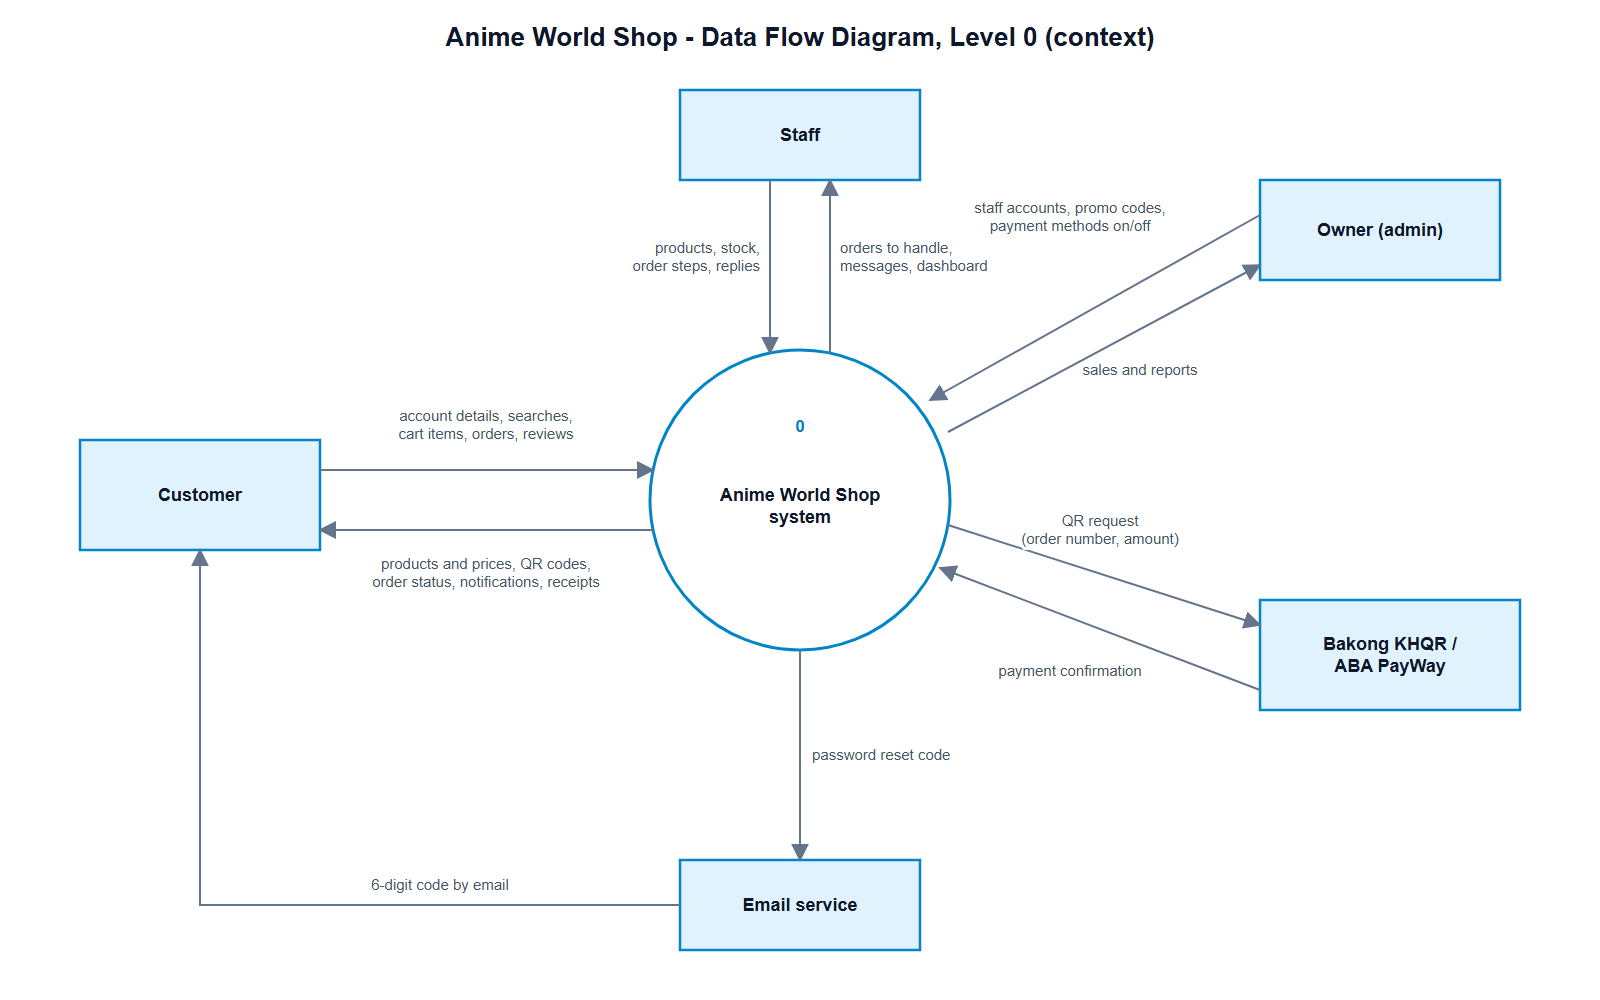
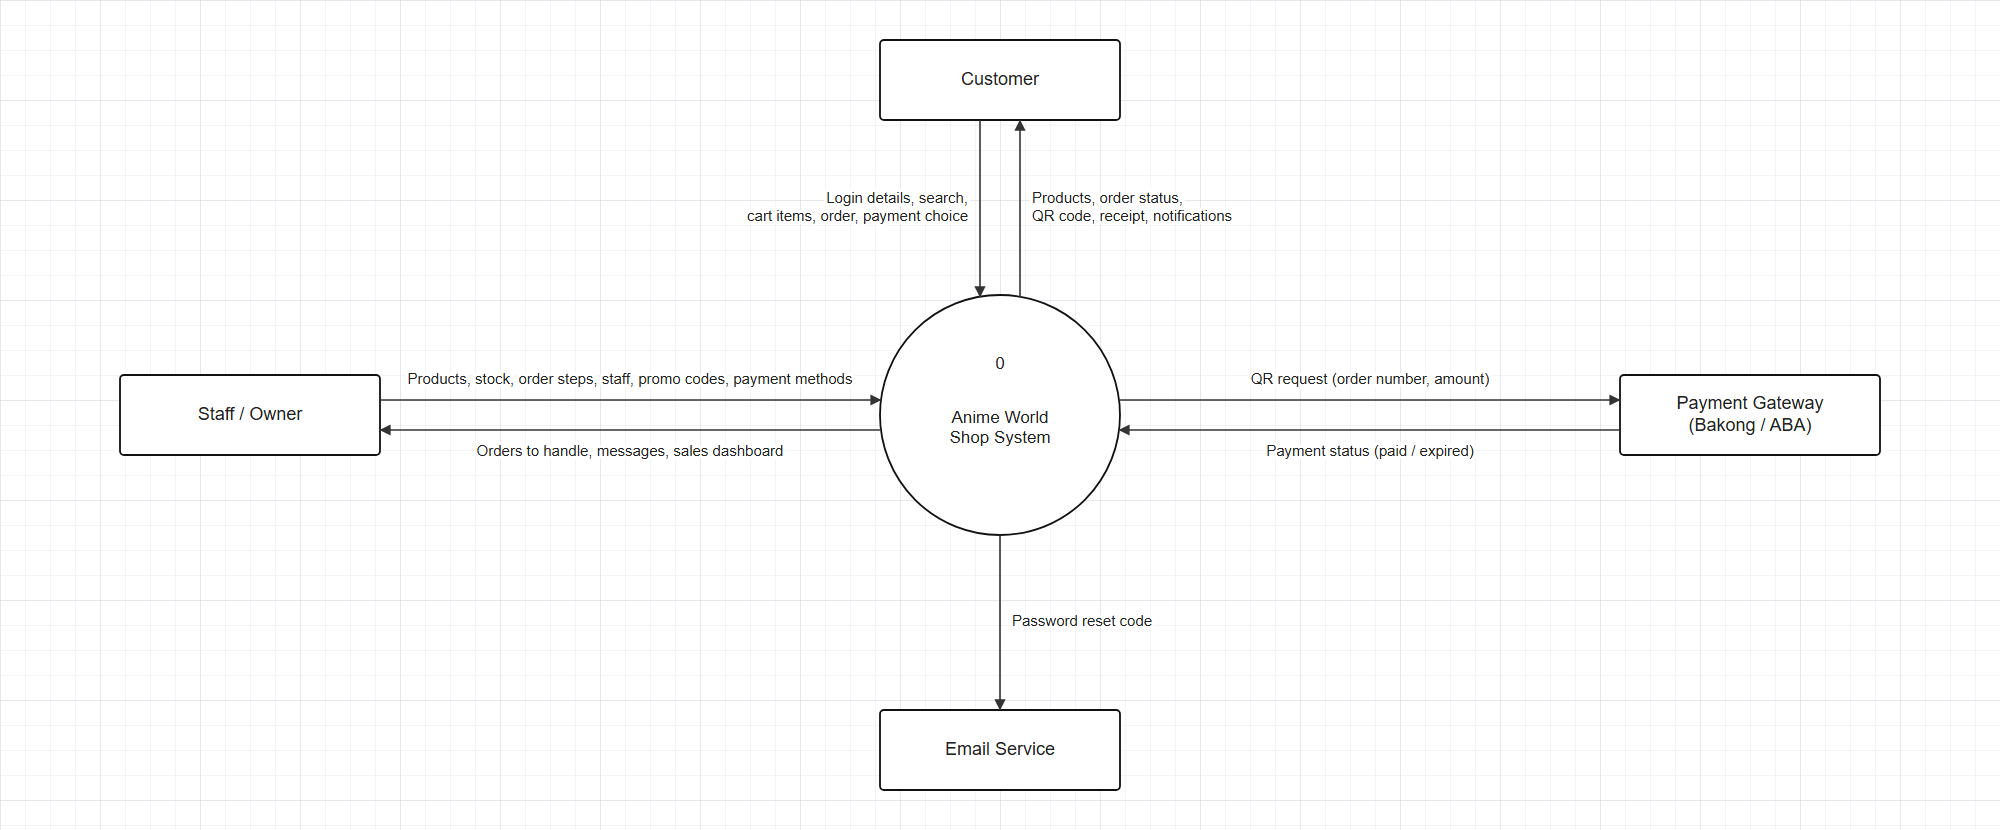
docs(requirements): DFDs redrawn black on grid paper, plus Level 2
Level 0 (main system), Level 1 (six main functions, seven data stores) and a
new Level 2 for 3.0 Cart & Checkout, with right-angled flows. Section 8.1
describes the processes and the four steps of 3.0.
Claude-Session: https://claude.ai/code/session_01L2MK4BVb8vmpPBvTsaVt4h

diff --git a/docs/requirements/diagrams/make_dfd.py b/docs/requirements/diagrams/make_dfd.py
@@ -1,161 +1,185 @@
 """Data flow diagrams (Yourdon/DeMarco notation) for Anime World Shop.
 
-Writes dfd-level-0.svg (context diagram) and dfd-level-1.svg next to this file.
-Circles are processes, rectangles are outside parties (external entities),
-open boxes are data stores. A rectangle with a corner stroke is a copy of an
-entity drawn twice to keep the lines short.
+Writes dfd-level-0.svg, dfd-level-1.svg and dfd-level-2.svg next to this file:
+black lines on grid paper, rectangles for outside parties (external entities),
+numbered circles for processes, open boxes for data stores. Lines only run
+across or down, so every flow is a short path of straight legs.
 
 Usage:  python make_dfd.py
-PNG:    chrome --headless --screenshot=dfd-level-1.png --window-size=1900,1400 dfd-level-1.svg
+PNG:    chrome --headless --screenshot=dfd-level-1.png --window-size=2000,940 dfd-level-1.svg
 """
 from pathlib import Path
 
 HERE = Path(__file__).parent
-BLUE, INK, MUTED, LINE = "#0284C7", "#0F172A", "#475569", "#64748B"
-FONT = "Roboto, Arial, sans-serif"
+INK, LINE, LABEL = "#111111", "#333333", "#222222"
+FONT = "Arial, Helvetica, sans-serif"
 
 
 class Svg:
-    def __init__(self, w, h, title):
+    def __init__(self, w, h):
         self.w, self.h, self.parts = w, h, []
-        self.text(w / 2, 46, title, size=26, weight="bold", color=INK)
 
-    def text(self, x, y, label, size=15, weight="normal", color=MUTED, anchor="middle", halo=False):
-        lines = label.split("\n")
+    def text(self, x, y, label, size=15, weight="normal", anchor="middle", halo=True):
+        lines = label.replace("&", "&amp;").split("\n")
         y0 = y - (len(lines) - 1) * size * 0.6
-        halo_attr = ' stroke="#FFFFFF" stroke-width="5" paint-order="stroke"' if halo else ""
+        halo_attr = ' stroke="#FFFFFF" stroke-width="6" paint-order="stroke"' if halo else ""
         spans = "".join(f'<tspan x="{x}" y="{y0 + i * size * 1.2:.0f}">{line}</tspan>' for i, line in enumerate(lines))
-        self.parts.append(f'<text font-family="{FONT}" font-size="{size}" font-weight="{weight}" fill="{color}" '
-                          f'text-anchor="{anchor}"{halo_attr}>{spans}</text>')
+        self.parts.append(f'<text font-family="{FONT}" font-size="{size}" font-weight="{weight}" fill="{LABEL}" '
+                          f'text-anchor="{anchor}" dominant-baseline="middle"{halo_attr}>{spans}</text>')
 
-    def entity(self, x, y, w, h, label, copy=False):
-        self.parts.append(f'<rect x="{x}" y="{y}" width="{w}" height="{h}" fill="#E0F2FE" stroke="{BLUE}" stroke-width="2.5"/>')
-        if copy:
-            self.parts.append(f'<line x1="{x}" y1="{y + 18}" x2="{x + 18}" y2="{y}" stroke="{BLUE}" stroke-width="2.5"/>')
-        self.text(x + w / 2, y + h / 2 + 6, label, size=18, weight="bold", color=INK)
+    def entity(self, x, y, w, h, label):
+        self.parts.append(f'<rect x="{x}" y="{y}" width="{w}" height="{h}" rx="4" fill="#FFFFFF" stroke="{INK}" stroke-width="1.8"/>')
+        self.text(x + w / 2, y + h / 2, label, size=18, halo=False)
 
     def process(self, cx, cy, r, number, label):
-        self.parts.append(f'<circle cx="{cx}" cy="{cy}" r="{r}" fill="#FFFFFF" stroke="{BLUE}" stroke-width="3"/>')
-        self.text(cx, cy - r * 0.45, number, size=17, weight="bold", color=BLUE)
-        self.text(cx, cy + 12, label, size=18, weight="bold", color=INK)
+        self.parts.append(f'<circle cx="{cx}" cy="{cy}" r="{r}" fill="#FFFFFF" stroke="{INK}" stroke-width="1.8"/>')
+        self.text(cx, cy - r * 0.42, number, size=17, halo=False)
+        self.text(cx, cy + 14, label, size=17, halo=False)
 
-    def store(self, x, y, w, ident, label):
-        h = 44
-        self.parts.append(f'<rect x="{x}" y="{y}" width="{w}" height="{h}" fill="#F8FAFC"/>')
-        self.parts.append(f'<path d="M{x + w} {y} H{x} V{y + h} H{x + w}" fill="none" stroke="{INK}" stroke-width="2"/>')
-        self.parts.append(f'<line x1="{x + 56}" y1="{y}" x2="{x + 56}" y2="{y + h}" stroke="{INK}" stroke-width="2"/>')
-        self.text(x + 28, y + 28, ident, size=16, weight="bold", color=BLUE)
-        self.text(x + 68, y + 28, label, size=16, weight="bold", color=INK, anchor="start")
+    def store(self, x, y, w, ident, label, h=44):
+        self.parts.append(f'<rect x="{x}" y="{y}" width="{w}" height="{h}" fill="#FFFFFF"/>')
+        self.parts.append(f'<path d="M{x + w} {y} H{x} V{y + h} H{x + w}" fill="none" stroke="{INK}" stroke-width="1.8"/>')
+        self.parts.append(f'<line x1="{x + 46}" y1="{y}" x2="{x + 46}" y2="{y + h}" stroke="{INK}" stroke-width="1.8"/>')
+        self.text(x + 23, y + h / 2, ident, size=16, halo=False)
+        self.text(x + 58, y + h / 2, label, size=17, anchor="start", halo=False)
 
-    def flow(self, points, label="", at=None, both=False, anchor="middle"):
+    def flow(self, points, label="", at=None, anchor="middle", both=False):
         d = "M" + " L".join(f"{x} {y}" for x, y in points)
         start = ' marker-start="url(#head)"' if both else ""
-        self.parts.append(f'<path d="{d}" fill="none" stroke="{LINE}" stroke-width="2"{start} marker-end="url(#head)"/>')
+        self.parts.append(f'<path d="{d}" fill="none" stroke="{LINE}" stroke-width="1.6" stroke-linejoin="round"{start} marker-end="url(#head)"/>')
         if label:
-            if at is None:
-                (x1, y1), (x2, y2) = points[0], points[-1]
-                at = ((x1 + x2) / 2, (y1 + y2) / 2)
-            self.text(at[0], at[1], label, size=15, anchor=anchor, halo=True)
+            self.text(at[0], at[1], label, size=15, anchor=anchor)
 
     def save(self, name):
-        head = (f'<svg xmlns="http://www.w3.org/2000/svg" width="{self.w}" height="{self.h}" viewBox="0 0 {self.w} {self.h}">'
-                f'<defs><marker id="head" viewBox="0 0 10 10" refX="9" refY="5" markerWidth="9" markerHeight="9" orient="auto-start-reverse">'
-                f'<path d="M0 0 L10 5 L0 10 z" fill="{LINE}"/></marker></defs>'
-                f'<rect width="{self.w}" height="{self.h}" fill="#FFFFFF"/>')
+        grid = ('<defs><pattern id="g" width="25" height="25" patternUnits="userSpaceOnUse">'
+                '<path d="M25 0 H0 V25" fill="none" stroke="#E6E9EE" stroke-width="1"/></pattern>'
+                '<pattern id="G" width="100" height="100" patternUnits="userSpaceOnUse">'
+                '<rect width="100" height="100" fill="url(#g)"/><path d="M100 0 H0 V100" fill="none" stroke="#D5DAE1" stroke-width="1"/></pattern>'
+                f'<marker id="head" viewBox="0 0 10 10" refX="9.5" refY="5" markerWidth="7" markerHeight="7" orient="auto-start-reverse">'
+                f'<path d="M0 0 L10 5 L0 10 z" fill="{LINE}"/></marker></defs>')
+        head = (f'<svg xmlns="http://www.w3.org/2000/svg" width="{self.w}" height="{self.h}" viewBox="0 0 {self.w} {self.h}">{grid}'
+                f'<rect width="{self.w}" height="{self.h}" fill="#FFFFFF"/><rect width="{self.w}" height="{self.h}" fill="url(#G)"/>')
         (HERE / name).write_text(head + "".join(self.parts) + "</svg>\n", encoding="utf-8")
 
 
 def level_0():
-    s = Svg(1600, 1000, "Anime World Shop - Data Flow Diagram, Level 0 (context)")
-    s.process(800, 500, 150, "0", "Anime World Shop\nsystem")
-    s.entity(80, 440, 240, 110, "Customer")
-    s.entity(680, 90, 240, 90, "Staff")
-    s.entity(1260, 180, 240, 100, "Owner (admin)")
-    s.entity(1260, 600, 260, 110, "Bakong KHQR /\nABA PayWay")
-    s.entity(680, 860, 240, 90, "Email service")
-    # Customer
-    s.flow([(320, 470), (653, 470)], "account details, searches,\ncart items, orders, reviews", at=(486, 430))
-    s.flow([(653, 530), (320, 530)], "products and prices, QR codes,\norder status, notifications, receipts", at=(486, 578))
-    # Staff
-    s.flow([(770, 180), (770, 353)], "products, stock,\norder steps, replies", at=(760, 262), anchor="end")
-    s.flow([(830, 353), (830, 180)], "orders to handle,\nmessages, dashboard", at=(840, 262), anchor="start")
-    # Owner
-    s.flow([(1260, 215), (930, 400)], "staff accounts, promo codes,\npayment methods on/off", at=(1070, 222))
-    s.flow([(948, 432), (1260, 265)], "sales and reports", at=(1140, 375))
-    # Bank
-    s.flow([(948, 525), (1260, 625)], "QR request\n(order number, amount)", at=(1100, 535))
-    s.flow([(1260, 690), (940, 568)], "payment confirmation", at=(1070, 676))
+    """Context diagram: the whole shop is one process."""
+    s = Svg(2000, 830)
+    s.process(1000, 415, 120, "0", "Anime World\nShop System")
+    s.entity(880, 40, 240, 80, "Customer")
+    s.entity(120, 375, 260, 80, "Staff / Owner")
+    s.entity(1620, 375, 260, 80, "Payment Gateway\n(Bakong / ABA)")
+    s.entity(880, 710, 240, 80, "Email Service")
+    # Customer (two lines at x 980 / 1020; the circle top is at y 296)
+    s.flow([(980, 120), (980, 297)], "Login details, search,\ncart items, order, payment choice", at=(968, 208), anchor="end")
+    s.flow([(1020, 297), (1020, 120)], "Products, order status,\nQR code, receipt, notifications", at=(1032, 208), anchor="start")
+    # Staff / Owner
+    s.flow([(380, 400), (881, 400)], "Products, stock, order steps, staff, promo codes, payment methods", at=(630, 380))
+    s.flow([(881, 430), (380, 430)], "Orders to handle, messages, sales dashboard", at=(630, 452))
+    # Payment gateway
+    s.flow([(1119, 400), (1620, 400)], "QR request (order number, amount)", at=(1370, 380))
+    s.flow([(1620, 430), (1119, 430)], "Payment status (paid / expired)", at=(1370, 452))
     # Email
-    s.flow([(800, 650), (800, 860)], "password reset code", at=(812, 760), anchor="start")
-    s.flow([(680, 905), (200, 905), (200, 550)], "6-digit code by email", at=(440, 890))
+    s.flow([(1000, 535), (1000, 710)], "Password reset code", at=(1012, 622), anchor="start")
     s.save("dfd-level-0.svg")
 
 
 def level_1():
-    s = Svg(1900, 1420, "Anime World Shop - Data Flow Diagram, Level 1")
-    r = 95
-    # outside parties (Customer drawn twice: left for shopping, right for payment and tracking)
-    s.entity(40, 70, 200, 80, "Email service")
-    s.entity(40, 610, 200, 90, "Customer")
-    s.entity(1680, 250, 200, 90, "Staff / Owner")
-    s.entity(1680, 710, 200, 90, "Customer", copy=True)
-    s.entity(1680, 1100, 200, 100, "Bakong /\nABA PayWay")
-    # processes
-    s.process(520, 180, r, "1.0", "Manage\naccounts")
-    s.process(520, 500, r, "2.0", "Browse\nproducts")
-    s.process(520, 820, r, "3.0", "Cart and\nwishlist")
-    s.process(520, 1150, r, "4.0", "Place\norder")
-    s.process(1420, 300, r, "7.0", "Run the\nshop")
-    s.process(1420, 760, r, "6.0", "Track and\nnotify")
-    s.process(1420, 1150, r, "5.0", "Pay for\norder")
-    # data stores
-    s.store(820, 158, 300, "D1", "Users")
-    s.store(820, 478, 300, "D2", "Products")
-    s.store(820, 798, 300, "D3", "Cart and favorites")
-    s.store(820, 990, 300, "D4", "Orders")
-    s.store(820, 1290, 300, "D7", "Coupons, payment methods")
-    s.store(1290, 1310, 260, "D5", "Payments")
-    s.store(1640, 545, 240, "D6", "Notifications")
-    # 1.0 accounts
-    s.flow([(240, 640), (440, 230)], "login, register,\nreset request", at=(300, 420))
-    s.flow([(615, 180), (820, 180)], "user record", at=(718, 150), both=True)
-    s.flow([(430, 150), (240, 110)], "reset code", at=(335, 112))
-    s.flow([(140, 150), (140, 610)], "code", at=(150, 380), anchor="start")
-    # 2.0 browse
-    s.flow([(240, 645), (430, 530)], "search, filters", at=(345, 568))
-    s.flow([(430, 565), (240, 665)], "products, prices", at=(365, 648))
-    s.flow([(820, 500), (615, 500)], "product data", at=(718, 470))
-    # 3.0 cart
-    s.flow([(240, 680), (435, 790)], "add, update,\nremove", at=(318, 768))
-    s.flow([(615, 820), (820, 820)], "cart lines", at=(718, 790), both=True)
-    # 4.0 order
-    s.flow([(200, 700), (200, 1150), (425, 1150)], "address,\npayment choice", at=(310, 1125))
-    s.flow([(900, 842), (590, 1085)], "cart items", at=(760, 930))
-    s.flow([(600, 1100), (980, 522)], "stock taken", at=(870, 690))
-    s.flow([(615, 1130), (820, 1012)], "new order", at=(700, 1040))
-    s.flow([(820, 1300), (600, 1200)], "promo code,\nmethods that are on", at=(700, 1290))
-    s.flow([(615, 1160), (1325, 1160)], "order to pay", at=(980, 1185))
-    # 5.0 pay
-    s.flow([(1515, 1135), (1680, 1135)], "QR request", at=(1598, 1110))
-    s.flow([(1680, 1175), (1515, 1175)], "payment\nconfirmation", at=(1598, 1222))
-    s.flow([(1420, 1245), (1420, 1310)], "payment record", at=(1432, 1280), anchor="start", both=True)
-    s.flow([(1340, 1105), (1120, 1028)], "mark paid", at=(1240, 1095))
-    s.flow([(1490, 1085), (1720, 800)], "QR code,\npayment status", at=(1640, 960))
-    # 6.0 track and notify
-    s.flow([(1120, 1000), (1335, 800)], "order status", at=(1215, 880))
-    s.flow([(1490, 695), (1680, 589)], "new notification", at=(1580, 615))
-    s.flow([(1760, 589), (1760, 710)], "notification list", at=(1772, 650), anchor="start")
-    s.flow([(1515, 770), (1680, 770)], "order tracker", at=(1598, 745))
-    # 7.0 run the shop
-    s.flow([(1680, 275), (1515, 275)], "products, stock, order steps,\nstaff, promos, payment methods", at=(1598, 222))
-    s.flow([(1515, 320), (1680, 320)], "orders, messages,\ndashboard", at=(1598, 360))
-    s.flow([(1325, 250), (1120, 180)], "staff accounts", at=(1225, 195))
-    s.flow([(1328, 330), (1120, 490)], "product and\nstock changes", at=(1230, 390))
-    s.flow([(1345, 360), (1120, 995)], "order steps", at=(1255, 640))
-    s.flow([(1375, 385), (1120, 1295)], "promo codes,\npayment methods", at=(1180, 1130))
+    """The six main functions and the seven data stores."""
+    s = Svg(2000, 940)
+    r = 85
+    s.entity(860, 40, 220, 70, "Customer")
+    s.entity(40, 150, 200, 70, "Email Service")
+    s.entity(40, 615, 220, 70, "Payment Gateway")
+    s.entity(1760, 615, 200, 70, "Staff / Owner")
+    s.process(360, 330, r, "1.0", "User & Profile\nManagement")
+    s.process(970, 330, r, "3.0", "Cart &\nCheckout")
+    s.process(1580, 330, r, "2.0", "Catalog Browsing\n& Search")
+    s.process(640, 650, r, "4.0", "Payment\nProcessing")
+    s.process(1180, 650, r, "5.0", "Order Tracking\n& Notifications")
+    s.process(1580, 650, r, "6.0", "Shop\nAdministration")
+    s.store(240, 470, 240, "D1", "Users")
+    s.store(700, 470, 240, "D3", "Cart & Favorites")
+    s.store(1720, 308, 260, "D2", "Products & Categories")
+    s.store(1210, 168, 280, "D7", "Coupons & Pay Methods")
+    s.store(520, 840, 240, "D5", "Payments")
+    s.store(900, 840, 240, "D4", "Orders")
+    s.store(1260, 840, 240, "D6", "Notifications")
+    # 1.0 user & profile
+    s.flow([(860, 60), (360, 60), (360, 245)], "Register / Login", at=(610, 46))
+    s.flow([(380, 247), (380, 90), (860, 90)], "Token, profile", at=(610, 104))
+    s.flow([(360, 415), (360, 470)], "User record", at=(372, 442), anchor="start", both=True)
+    s.flow([(275, 330), (140, 330), (140, 220)], "Reset code", at=(146, 290), anchor="start")
+    s.flow([(445, 330), (885, 330)], "User ID, login status", at=(530, 316))
+    # 2.0 catalog
+    s.flow([(1080, 60), (1580, 60), (1580, 245)], "Search / filter request", at=(1330, 46))
+    s.flow([(1600, 247), (1600, 90), (1080, 90)], "Products, prices", at=(1330, 104))
+    s.flow([(1720, 330), (1665, 330)], "Product data", at=(1730, 372), anchor="start")
+    s.flow([(1495, 330), (1055, 330)], "Selected product", at=(1380, 316))
+    # 3.0 cart & checkout
+    s.flow([(960, 110), (960, 245)], "Add to cart,\naddress, Place order", at=(948, 170), anchor="end")
+    s.flow([(980, 245), (980, 110)], "Cart, totals", at=(992, 160), anchor="start")
+    s.flow([(920, 399), (920, 470)], "Cart lines", at=(908, 436), anchor="end", both=True)
+    s.flow([(1210, 190), (1030, 190), (1030, 270)], "Promo code,\npay methods on", at=(1042, 226), anchor="start")
+    s.flow([(1020, 399), (1020, 840)], "New order", at=(1032, 560), anchor="start")
+    s.flow([(887, 350), (640, 350), (640, 565)], "Order to pay", at=(652, 420), anchor="start")
+    # 4.0 payment
+    s.flow([(260, 635), (556, 635)], "QR request", at=(408, 621))
+    s.flow([(556, 665), (260, 665)], "Payment status", at=(408, 680))
+    s.flow([(640, 735), (640, 840)], "Payment record", at=(652, 788), anchor="start", both=True)
+    s.flow([(725, 650), (940, 650), (940, 840)], "Mark paid", at=(832, 636))
+    s.flow([(600, 575), (600, 140), (940, 140), (940, 110)], "QR code,\npayment status", at=(588, 220), anchor="end")
+    # 5.0 tracking
+    s.flow([(1140, 862), (1180, 862), (1180, 735)], "Order status", at=(1192, 790), anchor="start")
+    s.flow([(1265, 650), (1380, 650), (1380, 840)], "New\nnotification", at=(1392, 752), anchor="start")
+    s.flow([(1180, 565), (1180, 140), (1060, 140), (1060, 110)], "Order tracker,\nnotifications", at=(1192, 455), anchor="start")
+    # 6.0 administration
+    s.flow([(1760, 635), (1664, 635)], "Products, stock,\norder steps, promos", at=(1712, 590))
+    s.flow([(1664, 665), (1760, 665)], "Orders, messages,\ndashboard", at=(1712, 712))
+    s.flow([(1600, 567), (1600, 450), (1850, 450), (1850, 352)], "Product &\nstock changes", at=(1725, 476))
+    s.flow([(1540, 575), (1540, 450), (1300, 450), (1300, 212)], "Promo codes,\npay methods on/off", at=(1312, 380), anchor="start")
+    s.flow([(1500, 680), (1500, 780), (1100, 780), (1100, 840)], "Order steps", at=(1300, 766))
     s.save("dfd-level-1.svg")
+
+
+def level_2():
+    """Process 3.0 Cart & Checkout, split into its four steps."""
+    s = Svg(2000, 900)
+    r = 85
+    s.entity(870, 40, 220, 70, "Customer")
+    s.process(380, 320, r, "3.1", "Manage\nCart")
+    s.process(1560, 320, r, "3.2", "Price &\nPromo Code")
+    s.process(760, 640, r, "3.3", "Check Stock &\nSave Order")
+    s.process(1300, 640, r, "3.4", "Choose\nPayment")
+    s.process(1760, 640, 72, "4.0", "Payment\nProcessing")
+    s.process(1760, 820, 60, "5.0", "Order\nTracking")
+    s.store(260, 470, 240, "D3", "Cart & Favorites")
+    s.store(1690, 155, 290, "D7", "Coupons & Pay Methods")
+    s.store(380, 800, 260, "D2", "Products (stock)")
+    s.store(700, 800, 240, "D4", "Orders")
+    # 3.1 manage cart
+    s.flow([(870, 60), (380, 60), (380, 235)], "Add, change quantity, remove", at=(625, 46))
+    s.flow([(400, 237), (400, 90), (870, 90)], "Cart lines, stock left", at=(625, 104))
+    s.flow([(380, 405), (380, 470)], "Cart lines", at=(392, 438), anchor="start", both=True)
+    s.flow([(465, 320), (1475, 320)], "Cart items, subtotal", at=(700, 306))
+    # 3.2 price and promo
+    s.flow([(1090, 60), (1560, 60), (1560, 235)], "Promo code", at=(1325, 46))
+    s.flow([(1580, 237), (1580, 90), (1090, 90)], "Price breakdown (discount, delivery fee)", at=(1325, 104))
+    s.flow([(1800, 199), (1800, 300), (1643, 300)], "Coupon rules,\nmethods that are on", at=(1812, 250), anchor="start")
+    s.flow([(1560, 405), (1560, 500), (760, 500), (760, 555)], "Final amount, delivery fee", at=(1160, 486))
+    # 3.3 check stock and save
+    s.flow([(980, 110), (980, 620), (843, 620)], "Address, delivery,\nPlace order", at=(992, 410), anchor="start")
+    s.flow([(675, 640), (520, 640), (520, 800)], "Stock check,\nstock taken", at=(508, 700), anchor="end", both=True)
+    s.flow([(780, 725), (780, 800)], "New order", at=(792, 764), anchor="start")
+    s.flow([(700, 580), (700, 420), (440, 420), (440, 381)], "Sold out / only N left", at=(570, 406))
+    s.flow([(845, 660), (1217, 660)], "Order number, total", at=(1030, 646))
+    # 3.4 choose payment
+    s.flow([(1385, 640), (1688, 640)], "KHQR / ABA: order to pay", at=(1536, 626))
+    s.flow([(1300, 725), (1300, 820), (1700, 820)], "Cash: order confirmed", at=(1500, 806))
+    s.save("dfd-level-2.svg")
 
 
 if __name__ == "__main__":
     level_0()
     level_1()
+    level_2()

diff --git a/docs/requirements/REQUIREMENTS.md b/docs/requirements/REQUIREMENTS.md
@@ -269,18 +269,37 @@ Order items copy the product name and unit price at the time of purchase, so old
 
 ### 8.1 Data flow
 
-How data moves between the people, the system and its stores. Circles are processes, rectangles are outside parties, open boxes are data stores (Yourdon/DeMarco notation). Source: [make_dfd.py](diagrams/make_dfd.py).
+How data moves between the people, the system and its stores. Rectangles are outside parties (external entities), numbered circles are processes, open boxes are data stores (Yourdon/DeMarco notation). Source: [make_dfd.py](diagrams/make_dfd.py).
 
-**Level 0 (context):** the whole system as one process, with everyone it exchanges data with.
+**Level 0 (main system):** the whole shop as one process, with everyone it exchanges data with.
 
 ![Data flow diagram, level 0](diagrams/dfd-level-0.png)
 
-**Level 1:** the system split into its seven main processes and seven data stores. Customer is drawn twice (the copy has a corner stroke) to keep the lines short.
+**Level 1 (main functions):** the system split into six processes and seven data stores.
 
 ![Data flow diagram, level 1](diagrams/dfd-level-1.png)
 
 | Process | What it does | Data stores |
 |---|---|---|
+| 1.0 User & Profile Management | Register, log in, edit the profile, reset a forgotten password by email code | D1 Users |
+| 2.0 Catalog Browsing & Search | Home, categories, search with suggestions, filters | D2 Products & Categories |
+| 3.0 Cart & Checkout | Cart lines, promo code, stock check, save the order | D3 Cart & Favorites, D7 Coupons & Pay Methods, D4 Orders |
+| 4.0 Payment Processing | Ask Bakong or ABA PayWay for a QR, watch for the payment, mark the order paid | D5 Payments, D4 Orders |
+| 5.0 Order Tracking & Notifications | Order tracker and a notification at every step | D4 Orders, D6 Notifications |
+| 6.0 Shop Administration | Staff and owner: products, stock, order steps, staff accounts, promo codes, payment methods | D2, D4, D7 |
+
+**Level 2 (process 3.0 Cart & Checkout):** the busiest process, split into its four steps.
+
+![Data flow diagram, level 2: 3.0 Cart and Checkout](diagrams/dfd-level-2.png)
+
+| Step | What it does |
+|---|---|
+| 3.1 Manage Cart | Add, change the quantity or remove items; says when stock runs short |
+| 3.2 Price & Promo Code | Subtotal, promo discount and delivery fee; only payment methods that are on are offered |
+| 3.3 Check Stock & Save Order | Checks the stock again, takes it and saves the order, so nothing is sold twice |
+| 3.4 Choose Payment | KHQR or ABA goes to 4.0 Payment Processing; cash is confirmed straight away and goes to 5.0 Order Tracking |
+
+---|---|---|
 | 1.0 Manage accounts | Register, log in, reset a forgotten password by email code | D1 Users |
 | 2.0 Browse products | Home, categories, search and filters | D2 Products |
 | 3.0 Cart and wishlist | Add, update and remove cart lines; save favorites | D3 Cart and favorites |
